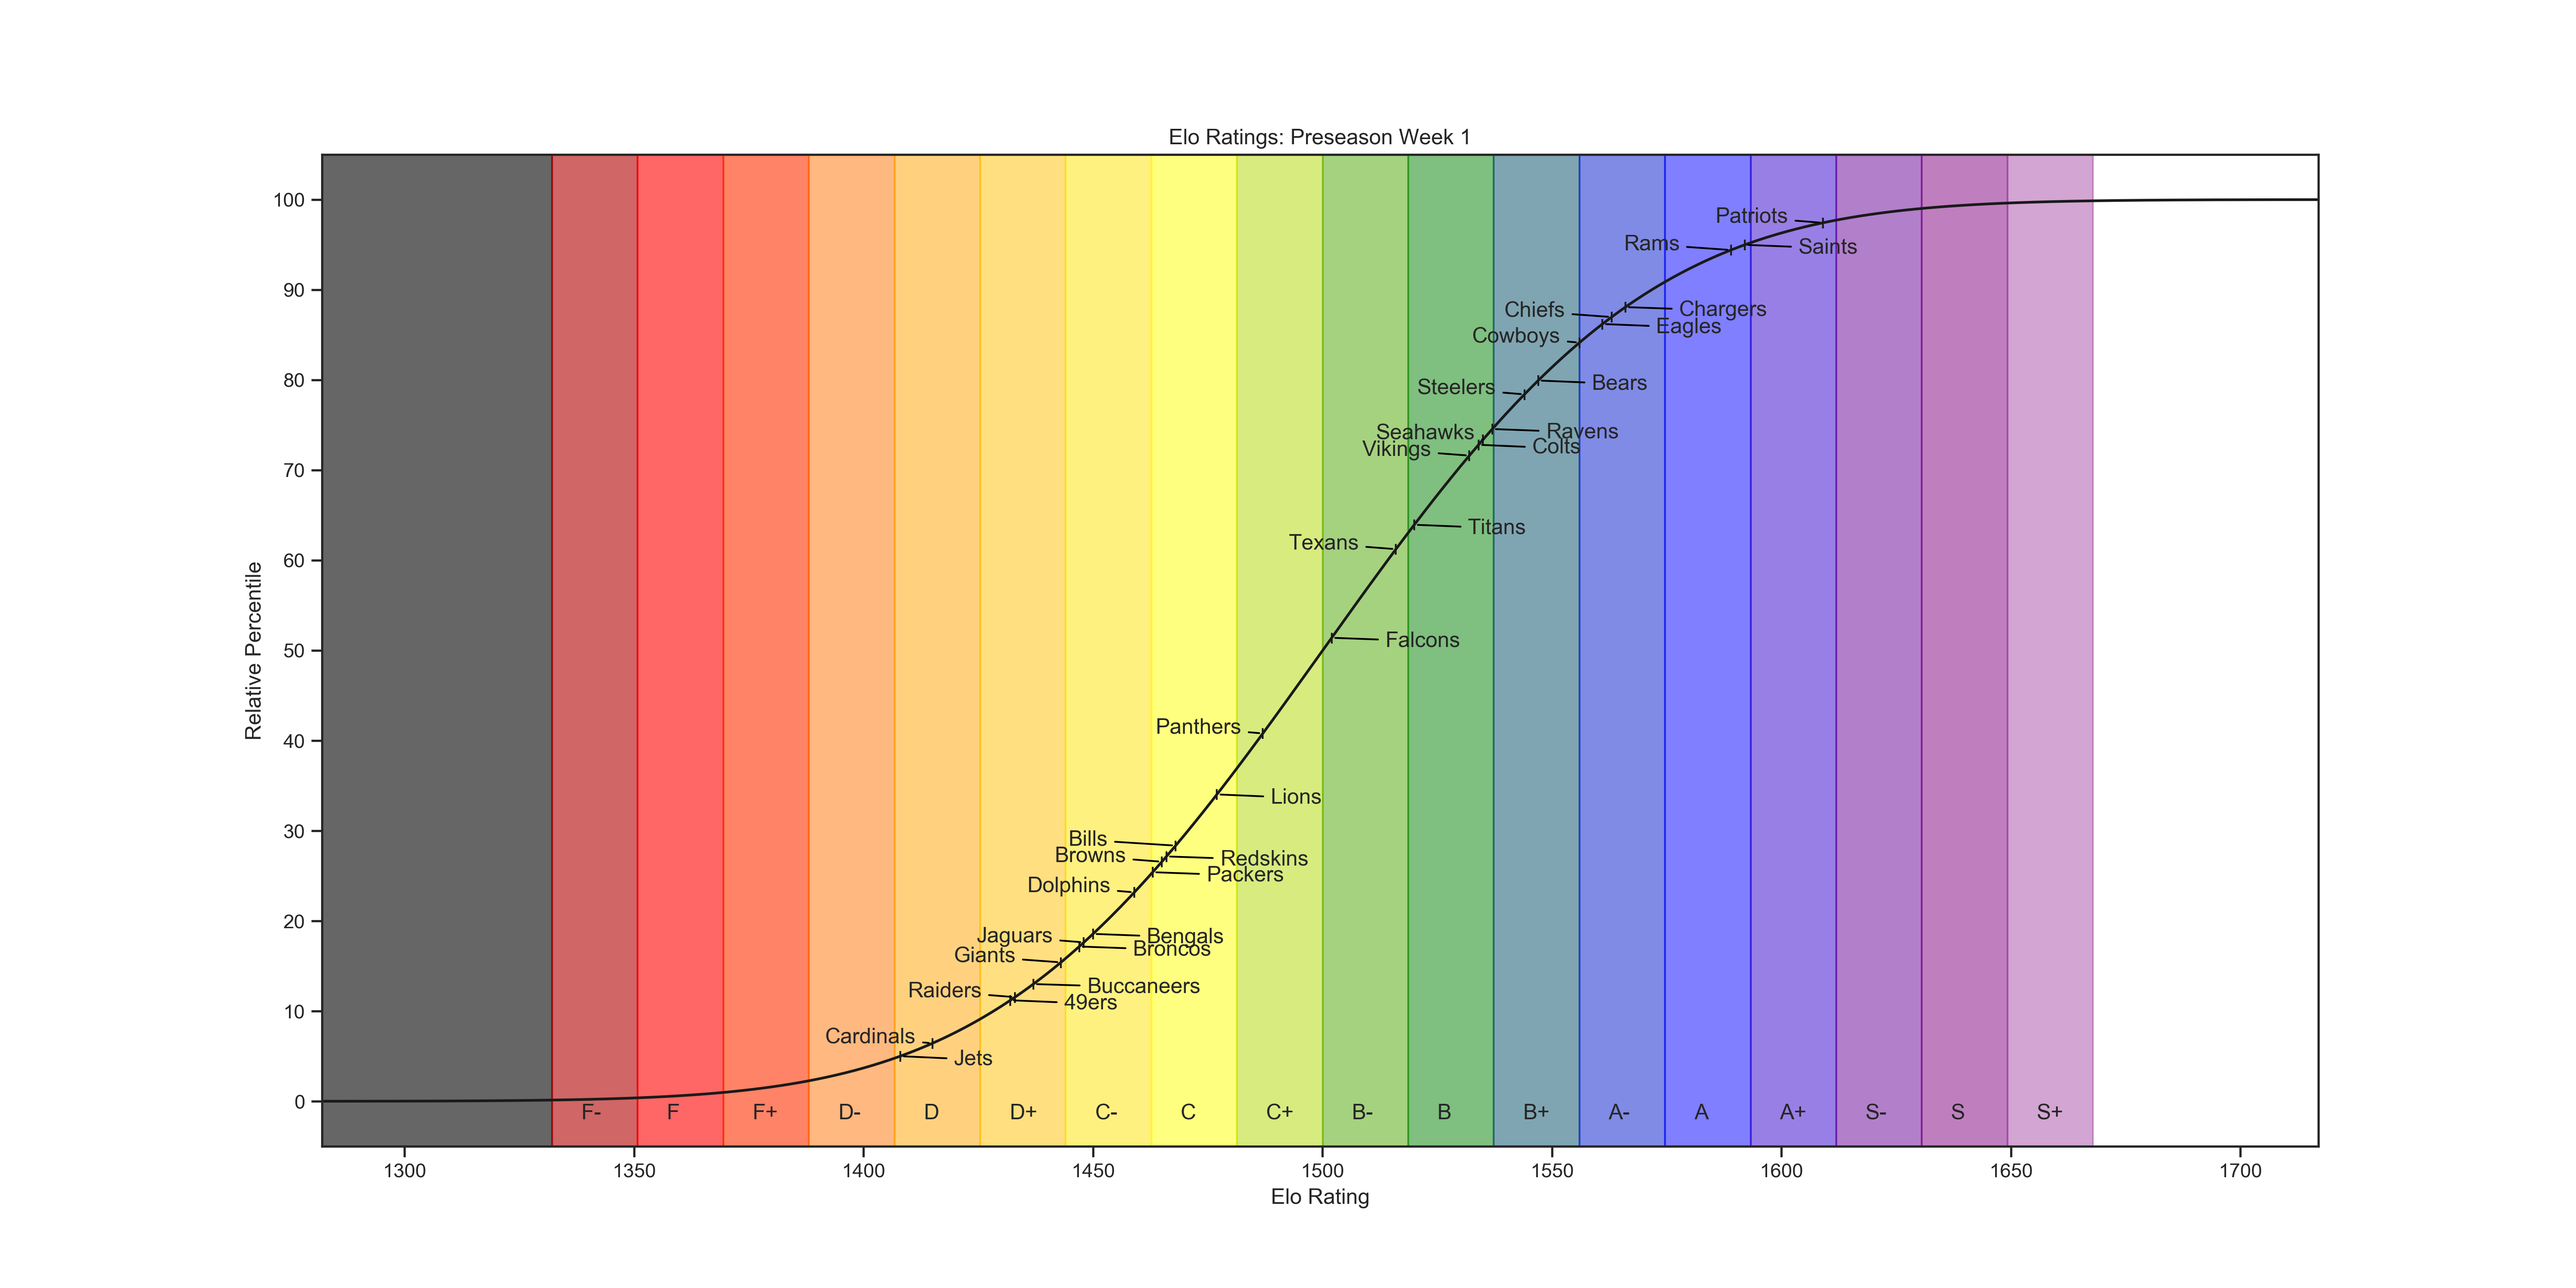
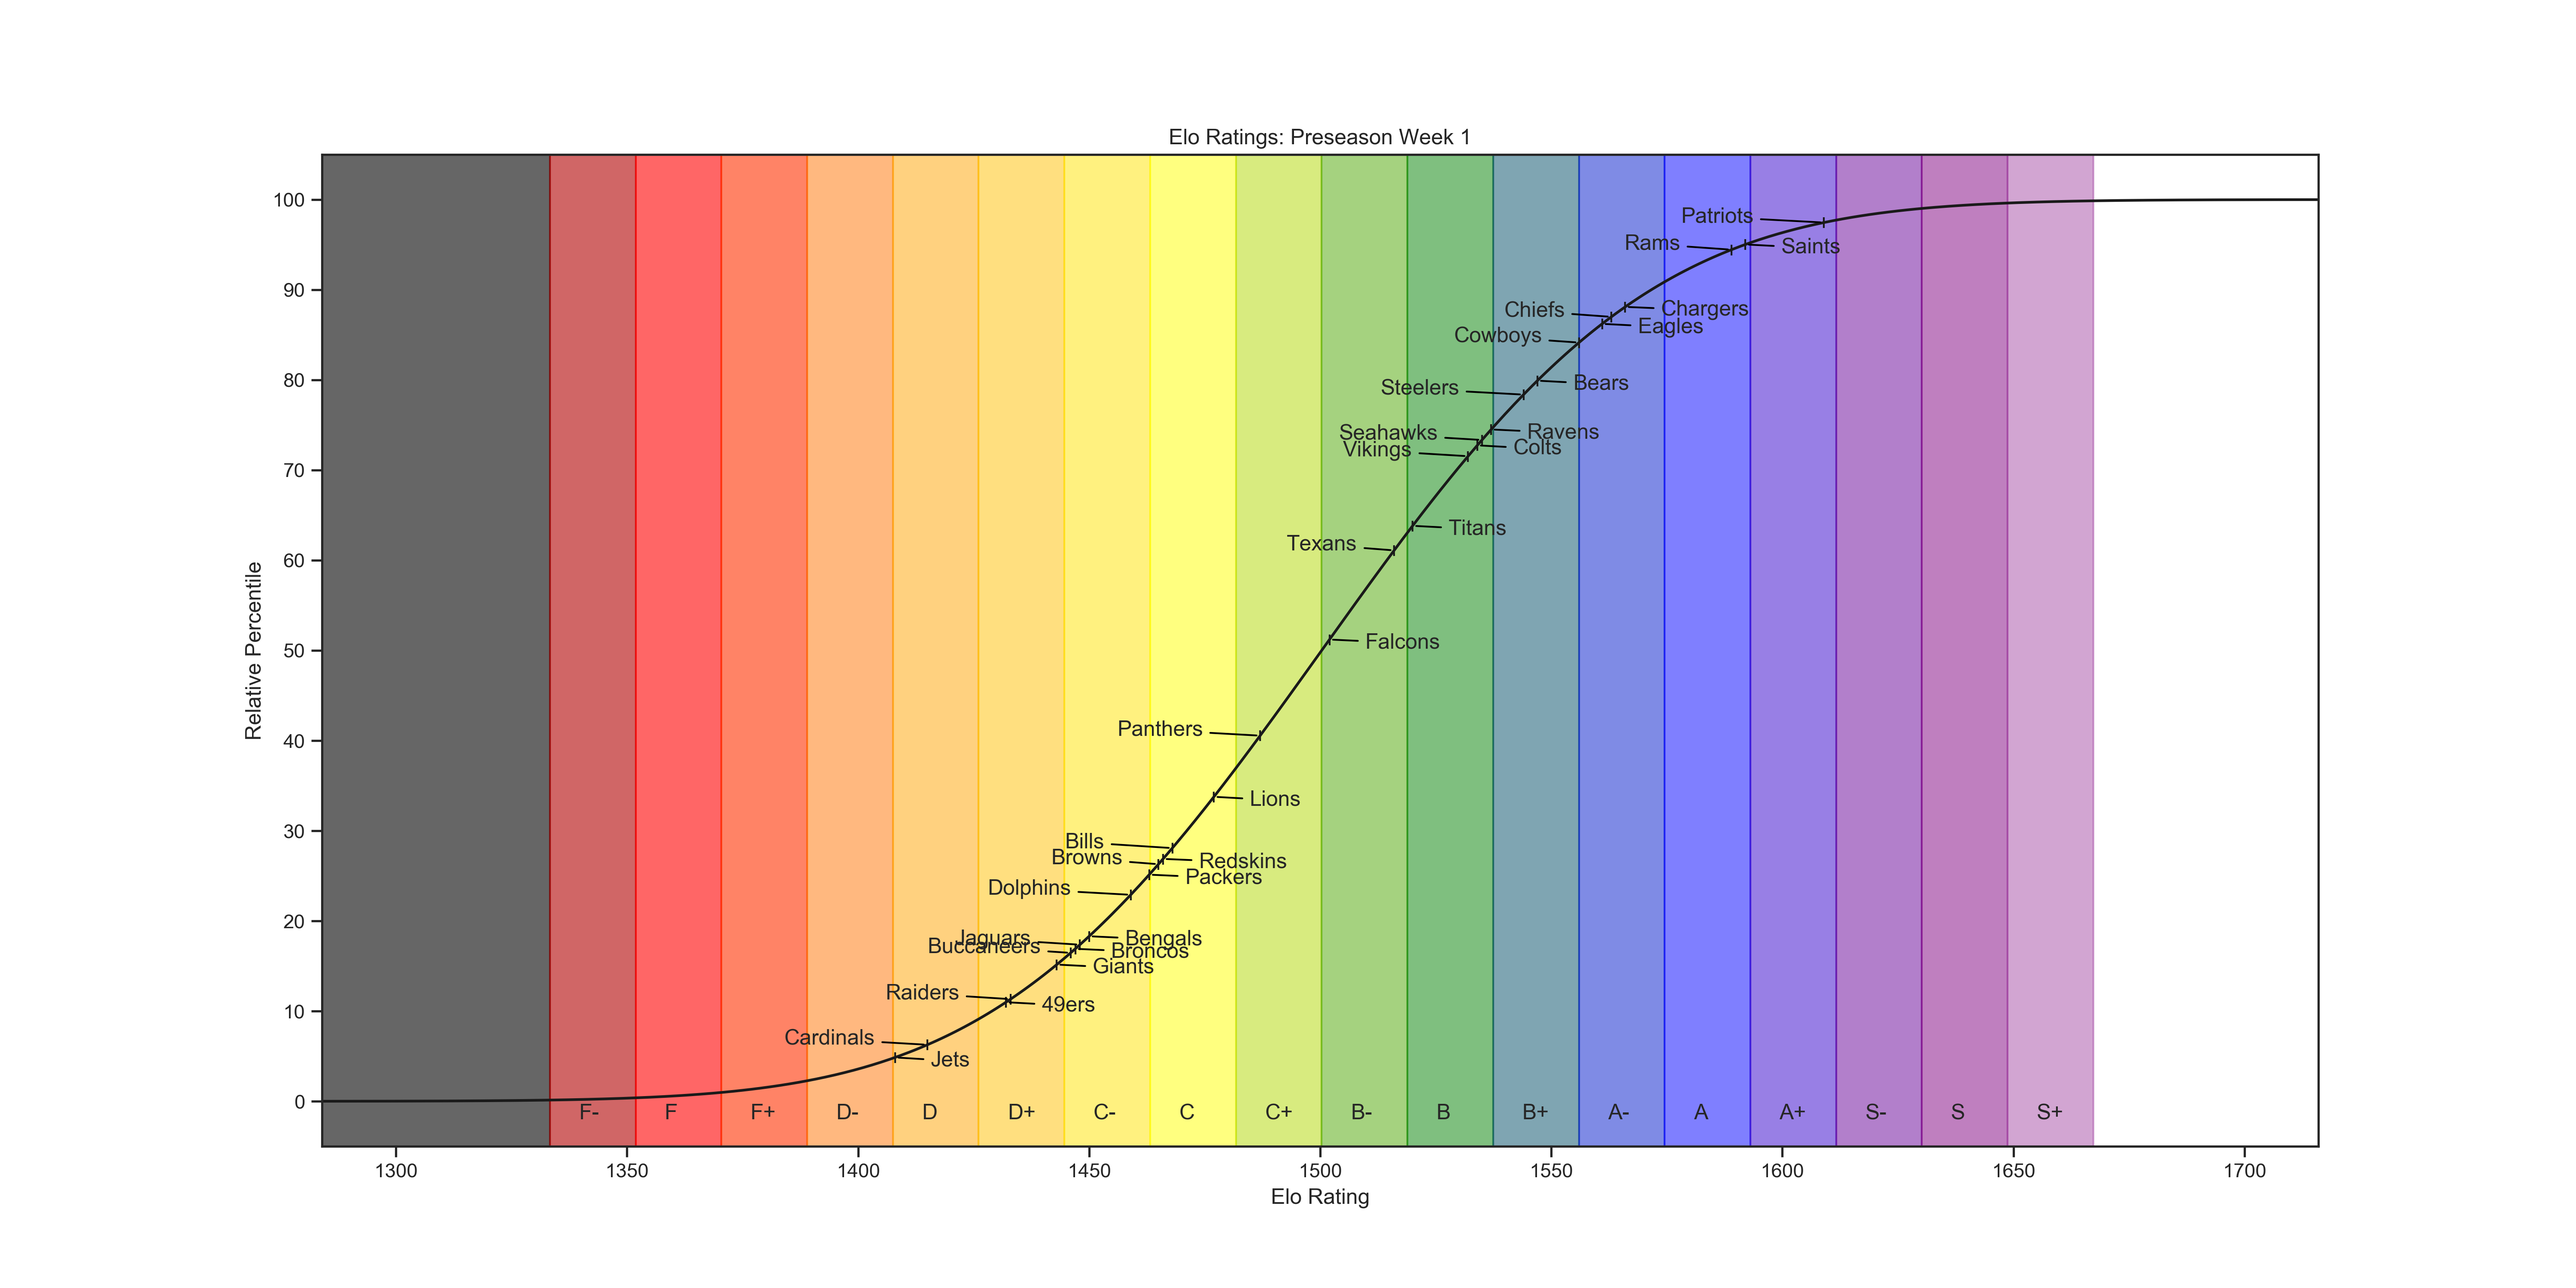
Refactored rankings

diff --git a/PlottingHelper.py b/PlottingHelper.py
@@ -25,7 +25,6 @@ def plot_elo_function(teams,
     else:
         avg_elo = statistics.mean(actual_elos)
         elo_dev = statistics.pstdev(actual_elos)
-    elo_dev_third = elo_dev / 3
 
     # Cumulative distribution function for a normal deviation
     def cdf(rating):
@@ -53,24 +52,24 @@ def plot_elo_function(teams,
     vals = np.arange(bottom, top)
 
     # Get the values that match the boundaries of the tiers
-    s_plus = avg_elo + elo_dev_third * 8
-    s = avg_elo + elo_dev_third * 7
-    s_minus = avg_elo + elo_dev_third * 6
-    a_plus = avg_elo + elo_dev_third * 5
-    a = avg_elo + elo_dev_third * 4
-    a_minus = avg_elo + elo_dev_third * 3
-    b_plus = avg_elo + elo_dev_third * 2
-    b = avg_elo + elo_dev_third * 1
+    s_plus = avg_elo + elo_dev * 8 / 3
+    s = avg_elo + elo_dev * 7 / 3
+    s_minus = avg_elo + elo_dev * 2
+    a_plus = avg_elo + elo_dev * 5 / 3
+    a = avg_elo + elo_dev * 4 / 3
+    a_minus = avg_elo + elo_dev
+    b_plus = avg_elo + elo_dev * 2 / 3
+    b = avg_elo + elo_dev * 1 / 3
     b_minus = avg_elo
-    c_plus = avg_elo - elo_dev_third * 1
-    c = avg_elo - elo_dev_third * 2
-    c_minus = avg_elo - elo_dev_third * 3
-    d_plus = avg_elo - elo_dev_third * 4
-    d = avg_elo - elo_dev_third * 5
-    d_minus = avg_elo - elo_dev_third * 6
-    f_plus = avg_elo - elo_dev_third * 7
-    f = avg_elo - elo_dev_third * 8
-    f_minus = avg_elo - elo_dev_third * 9
+    c_plus = avg_elo - elo_dev * 1 / 3
+    c = avg_elo - elo_dev * 2 / 3
+    c_minus = avg_elo - elo_dev
+    d_plus = avg_elo - elo_dev * 4 / 3
+    d = avg_elo - elo_dev * 5 / 3
+    d_minus = avg_elo - elo_dev * 2
+    f_plus = avg_elo - elo_dev * 7 / 3
+    f = avg_elo - elo_dev * 8 / 3
+    f_minus = avg_elo - elo_dev * 3
 
     # Set the colors of the tiers
     if classic_colors:
@@ -174,15 +173,17 @@ def plot_elo_function(teams,
     ax.axvspan(s, s_plus, alpha=0.5, color=s_color)
     ax.annotate(s='S', xy=((s + s_plus) / 2 - 3, -2))
 
-    ax.axvspan(s_plus, s_plus + elo_dev_third, alpha=0.5, color=s_plus_color)
-    ax.annotate(s='S+', xy=((s_plus + s_plus + elo_dev_third) / 2 - 3, -2))
+    ax.axvspan(s_plus, s_plus + elo_dev / 3, alpha=0.5, color=s_plus_color)
+    ax.annotate(s='S+', xy=((s_plus + s_plus + elo_dev / 3) / 2 - 3, -2))
 
     # Label each teams marker with the team name
     for i, percent in enumerate(percents):
         if i % 2 == 0:
-            offset = (30, -5)
+            offset = (20, -5)
         else:
-            offset = (-60, 0)
+            chars = min(len(team_names[i]), 8)
+            chars = max(chars, 6)
+            offset = (chars * -10, 0)
         ax.annotate(s=team_names[i],
                     xy=(actual_elos[i], percent),
                     xytext=offset,

diff --git a/StandingsHelper.py b/StandingsHelper.py
@@ -312,41 +312,41 @@ def get_tier(teams, team):
     elos = [team_info[4] for team_info in teams]
     avg_elo = statistics.mean(elos)
     elo_dev = statistics.pstdev(elos)
-    elo_dev_third = elo_dev / 3
+    glass_delta = (team_elo - avg_elo) / elo_dev
 
-    if team_elo > avg_elo + elo_dev_third * 8:
+    if glass_delta > 8 / 3:
         tier = 'S+'
-    elif team_elo > avg_elo + elo_dev_third * 7:
+    elif glass_delta > 7 / 3:
         tier = 'S'
-    elif team_elo > avg_elo + elo_dev_third * 6:
+    elif glass_delta > 2:
         tier = 'S-'
-    elif team_elo > avg_elo + elo_dev_third * 5:
+    elif glass_delta > 5 / 3:
         tier = 'A+'
-    elif team_elo > avg_elo + elo_dev_third * 4:
+    elif glass_delta > 4 / 3:
         tier = 'A'
-    elif team_elo > avg_elo + elo_dev_third * 3:
+    elif glass_delta > 1:
         tier = 'A-'
-    elif team_elo > avg_elo + elo_dev_third * 2:
+    elif glass_delta > 2 / 3:
         tier = 'B+'
-    elif team_elo > avg_elo + elo_dev_third * 1:
+    elif glass_delta > 1 / 3:
         tier = 'B'
-    elif team_elo >= avg_elo:
+    elif glass_delta >= 0:
         tier = 'B-'
-    elif team_elo > avg_elo - elo_dev_third * 1:
+    elif glass_delta > -1 / 3:
         tier = 'C+'
-    elif team_elo > avg_elo - elo_dev_third * 2:
+    elif glass_delta > -2 / 3:
         tier = 'C'
-    elif team_elo > avg_elo - elo_dev_third * 3:
+    elif glass_delta > -1:
         tier = 'C-'
-    elif team_elo > avg_elo - elo_dev_third * 4:
+    elif glass_delta > -4 / 3:
         tier = 'D+'
-    elif team_elo > avg_elo - elo_dev_third * 5:
+    elif glass_delta > -5 / 3:
         tier = 'D'
-    elif team_elo > avg_elo - elo_dev_third * 6:
+    elif glass_delta > -2:
         tier = 'D-'
-    elif team_elo > avg_elo - elo_dev_third * 7:
+    elif glass_delta > -7 / 3:
         tier = 'F+'
-    elif team_elo > avg_elo - elo_dev_third * 8:
+    elif glass_delta > -8 / 3:
         tier = 'F'
     else:
         tier = 'F-'
